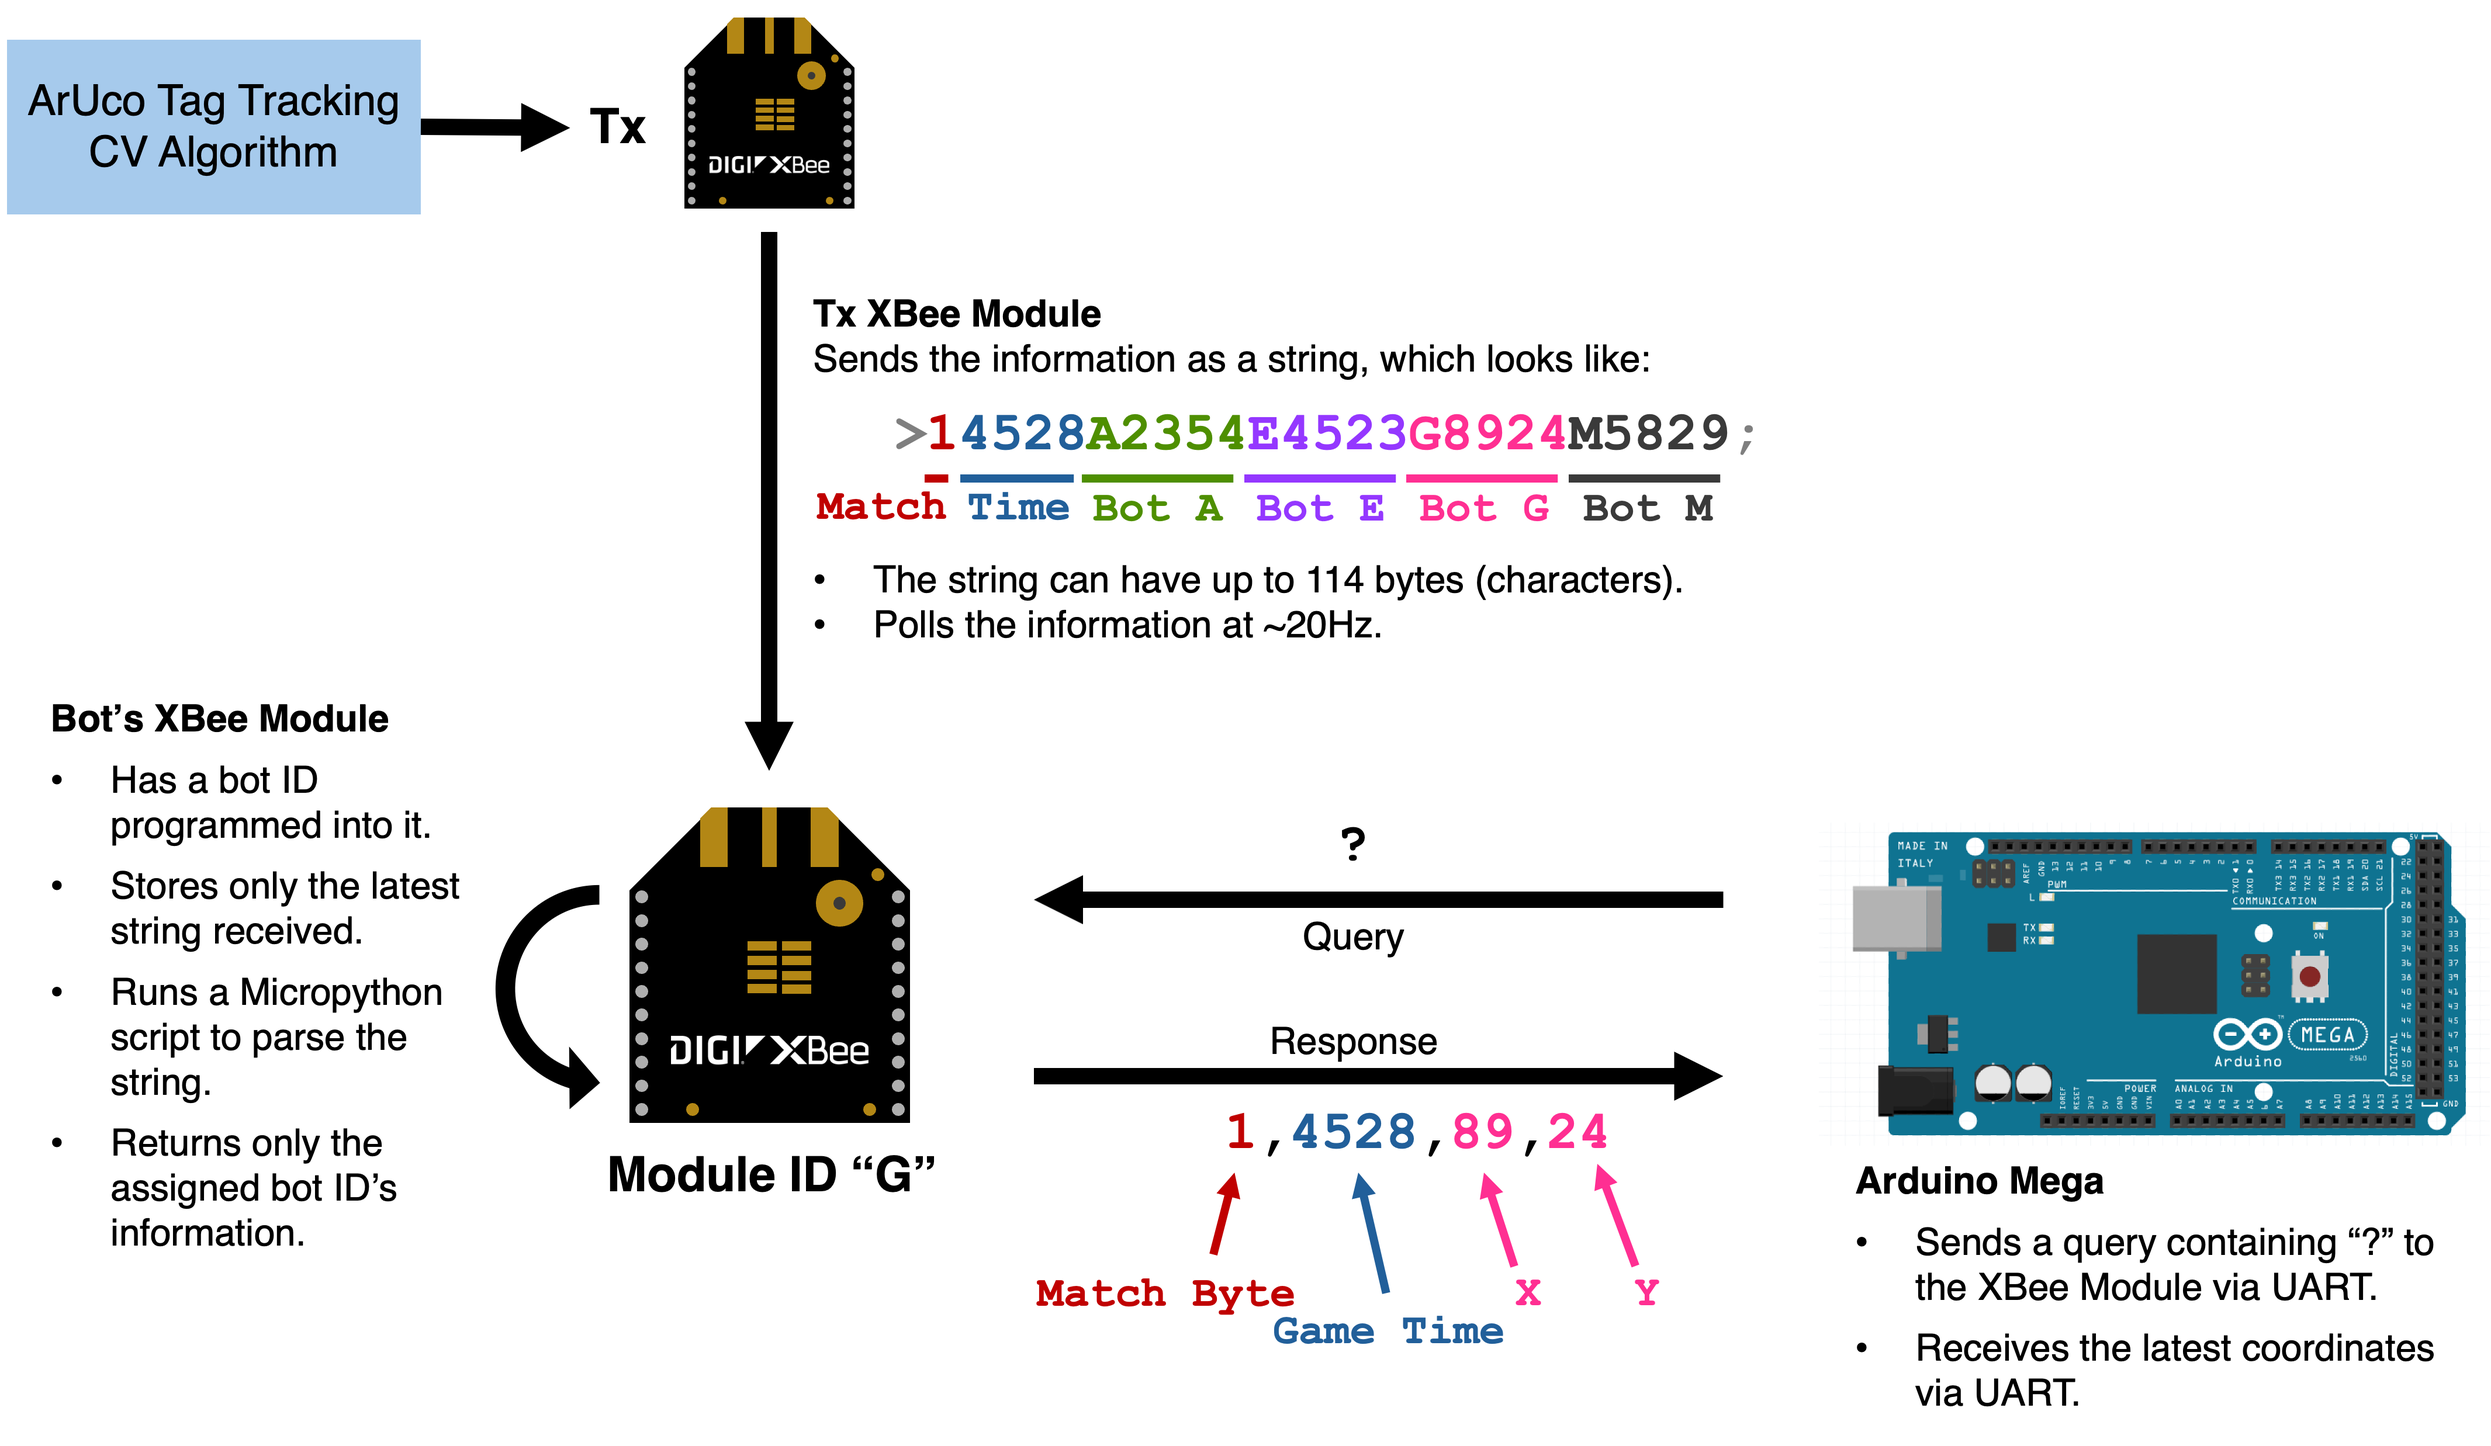
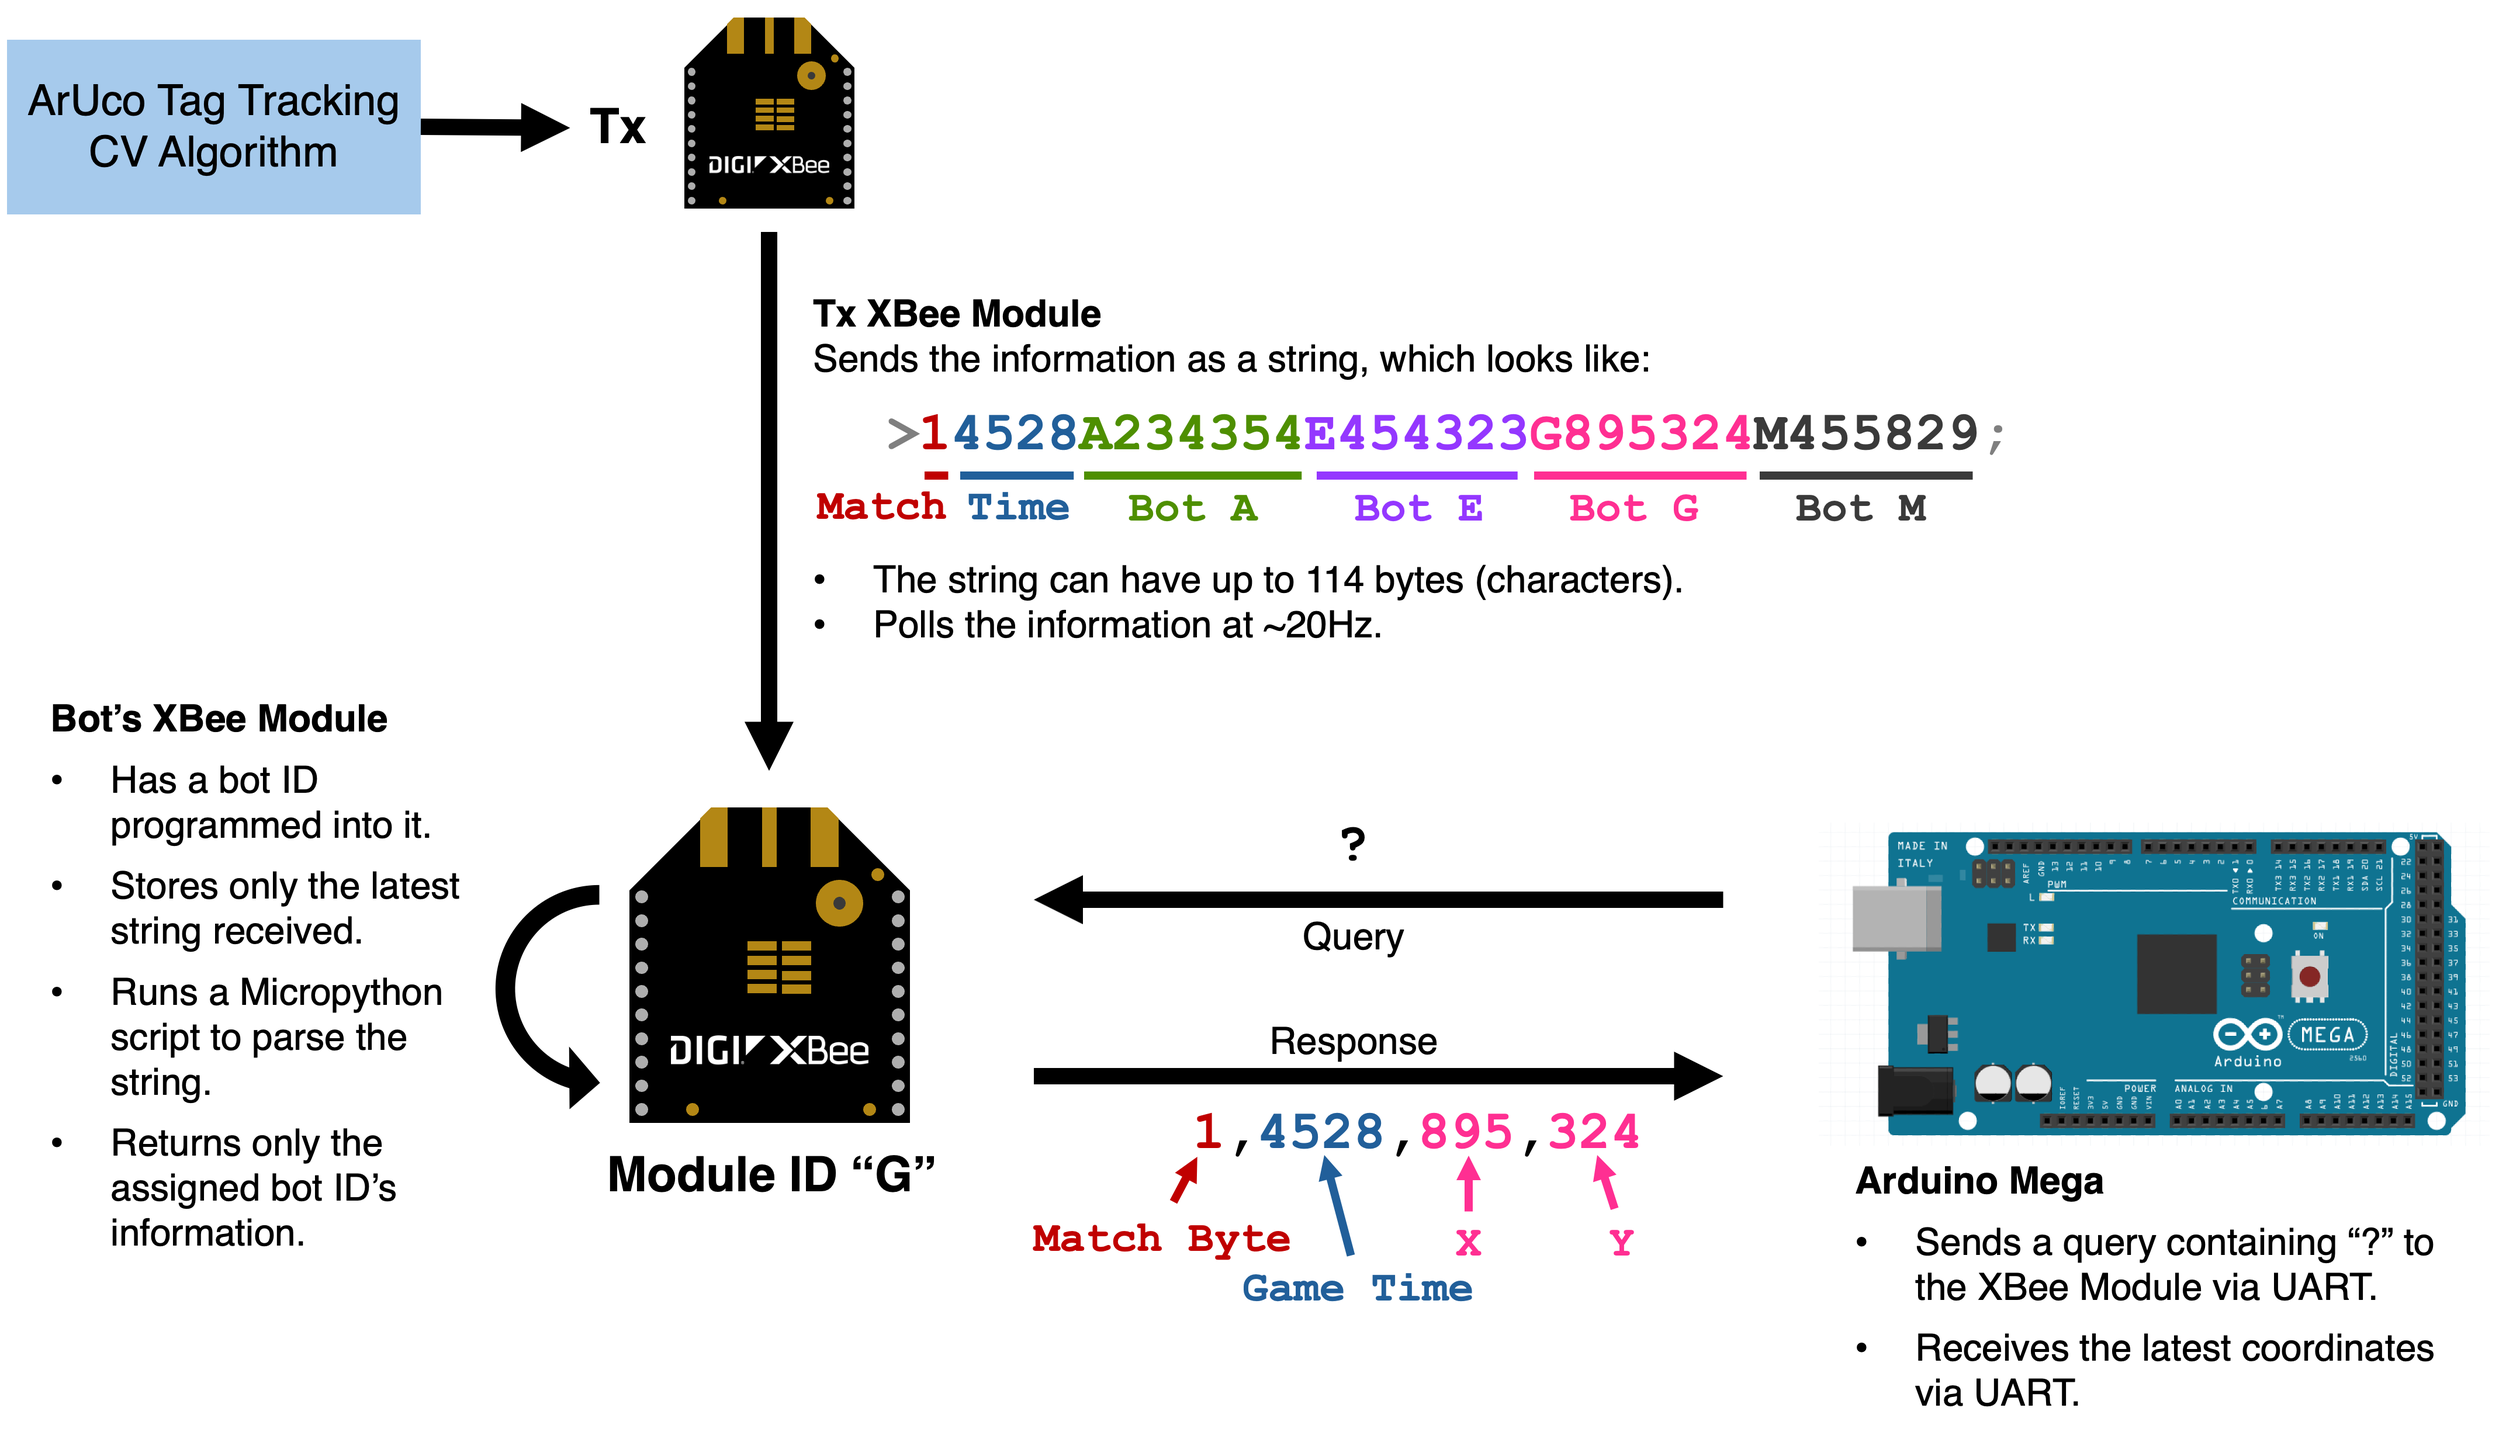
updated byte information

diff --git a/README.md b/README.md
@@ -49,16 +49,18 @@ In our setup, the CV algorithm supplies the robot tracking information to the Ra
 
 The locations of all the robots on the arena are sent within the same packet. The match information consists of the following information:
 
-- `Match Byte:` Binary (0/1) indicating whether a match is ongoing.
-- `Time:` Match time in seconds, represented as 4-bytes.
-- `Robot #1 ID:` Alphabet corresponding to the first robot's ArUco tag.
-- `Robot #1 X Coord:` First robot's X coordinate in centimeters.
-- `Robot #1 Y Coord:` First robot's Y coordinate in centimeters.
-- `Robot #2 ID:` Alphabet corresponding to the second robot's ArUco tag.
-- `Robot #2 ID X Coord:` Second robot's X coordinate in centimeters.
-- `Robot #2 ID Y Coord:` Second robot's Y coordinate in centimeters.
+- `>` Start (1 byte).
+- `Match Byte` Binary (0/1) indicating whether a match is ongoing (1 byte).
+- `Time` Match time in seconds, represented as 4 bytes.
+- `Robot #1 ID` Alphabet corresponding to the first robot's ArUco tag (1 byte).
+- `Robot #1 X Coord` First robot's X coordinate in centimeters (3 bytes).
+- `Robot #1 Y Coord` First robot's Y coordinate in centimeters (3 bytes).
+- `Robot #2 ID` Alphabet corresponding to the second robot's ArUco tag (1 byte).
+- `Robot #2 ID X Coord` Second robot's X coordinate in centimeters (3 bytes).
+- `Robot #2 ID Y Coord` Second robot's Y coordinate in centimeters (3 bytes).
+- `...`
+- `;` End (1 byte).
 
-.. and so on.
 
 This information is sent to all the XBee 3 modules as a string, as shown in the figure above. 
 
